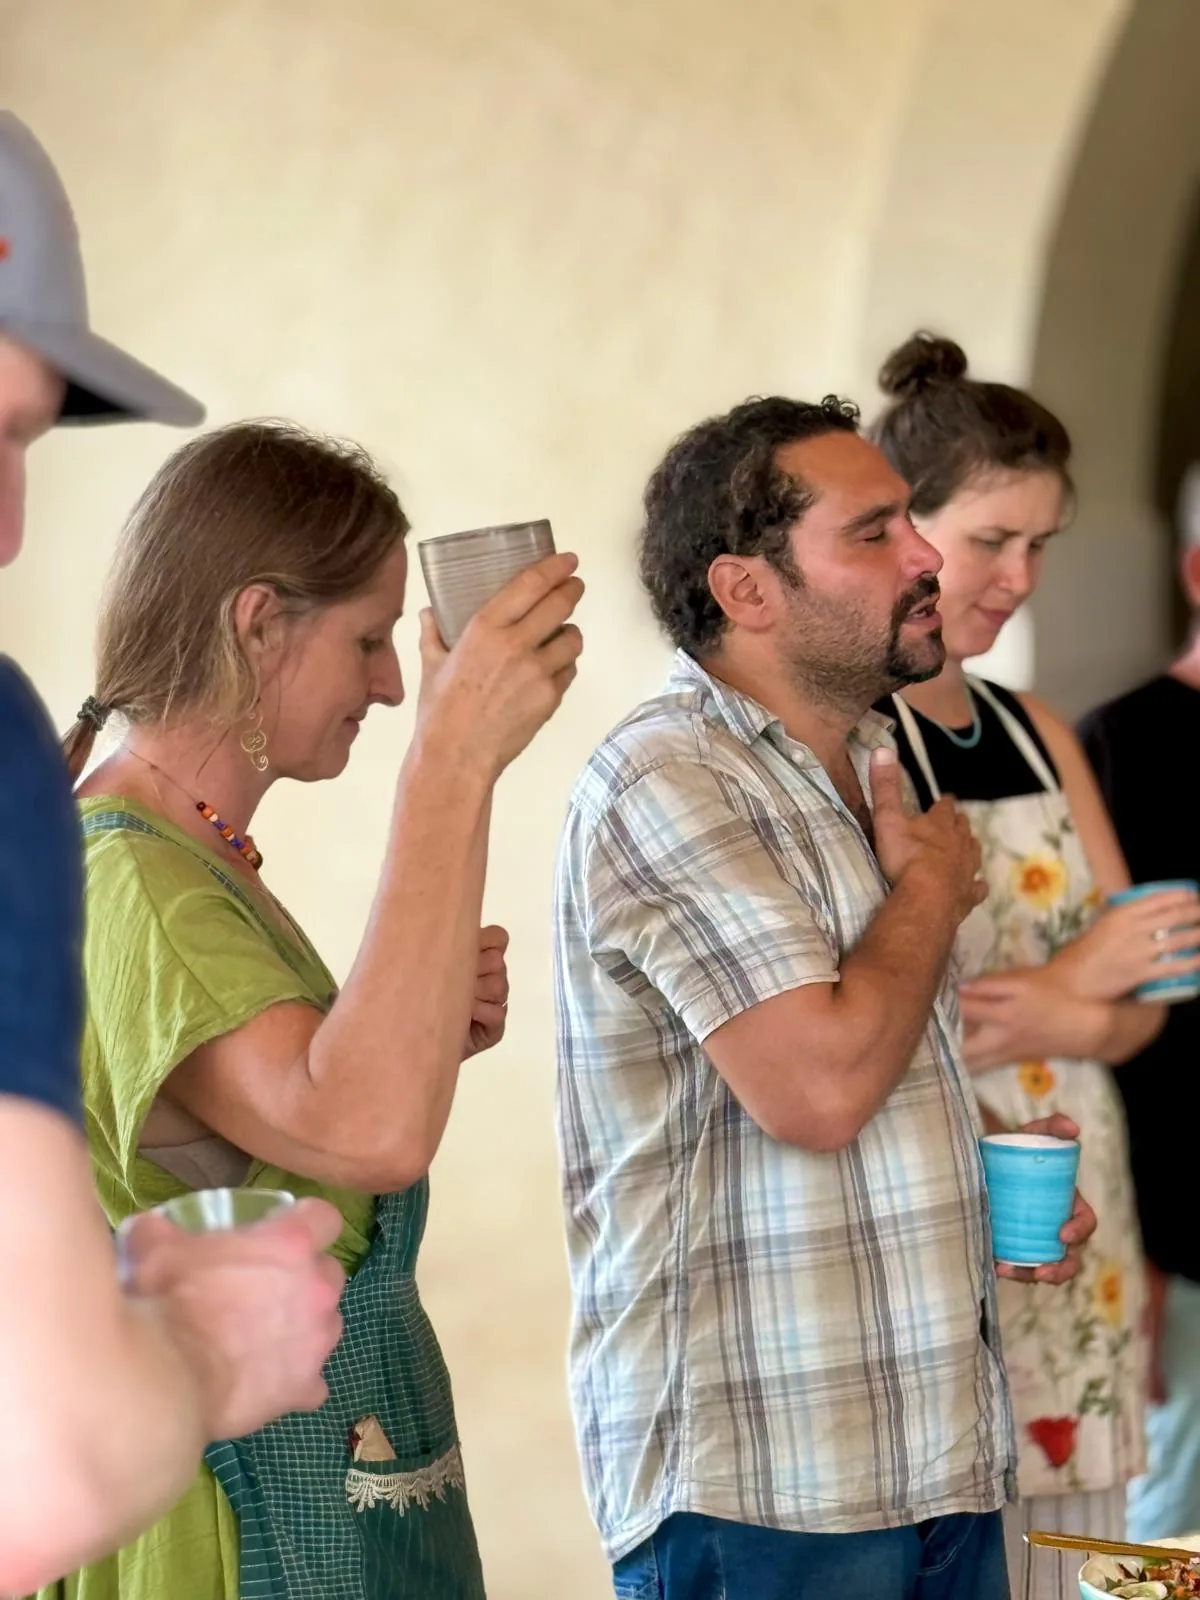
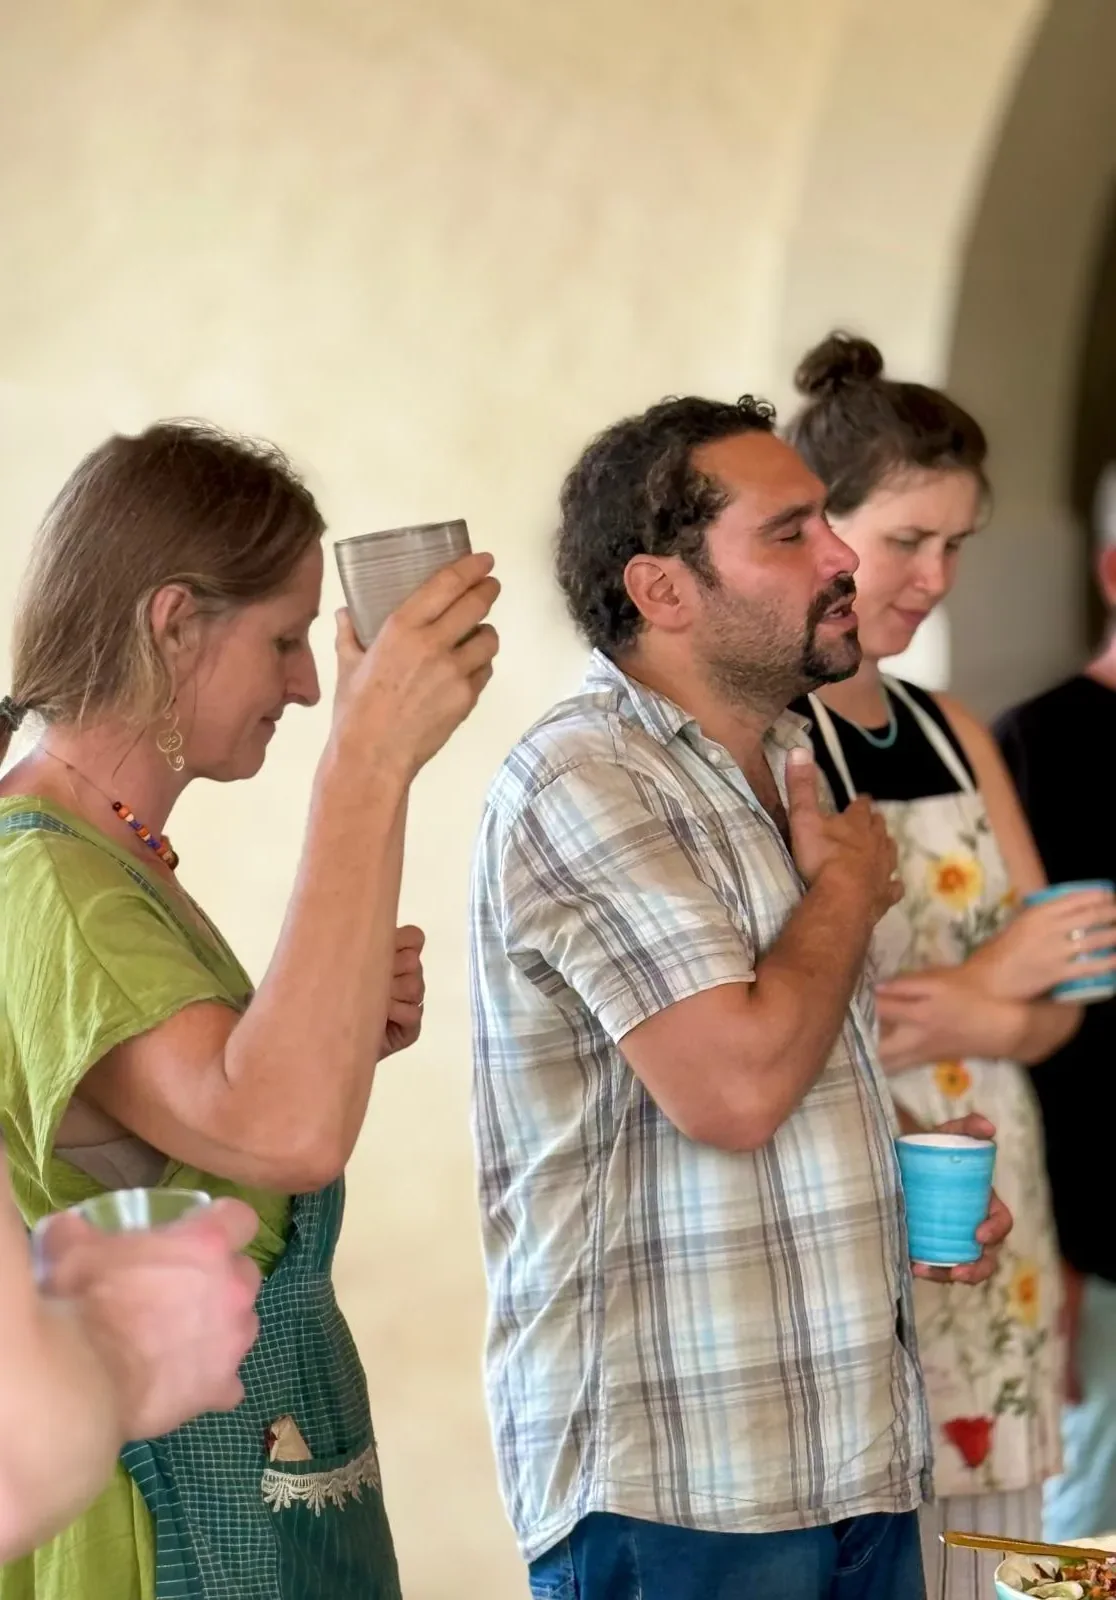
Old Table: remove the man at the left edge of the Carlo and Jessie photo
Claude-Session: https://claude.ai/code/session_01JozYehjZKTjkyCLkbYmwUv

diff --git a/the-old-table.html b/the-old-table.html
@@ -76,7 +76,7 @@
 <div class="origin-step">
 <div class="origin-k">III &middot; Who keeps it</div>
 <h3>Carlo and Jessie.</h3>
-<img class="photo origin-img origin-portrait" src="assets/img/old-table-toast.webp" alt="Carlo, eyes closed and hand on his heart, sharing words at the old table, with guests beside him" width="1200" height="1600" loading="lazy">
+<img class="photo origin-img origin-portrait" src="assets/img/old-table-toast.webp?v=2" alt="Carlo, eyes closed and hand on his heart, sharing words at the old table, with Jessie beside him" width="1116" height="1600" loading="lazy">
 <p>Among the last keepers of the game. The only way to protect it is to play it, so guests come from all over the world to join them, or simply to witness it.</p>
 </div>
 </div>
